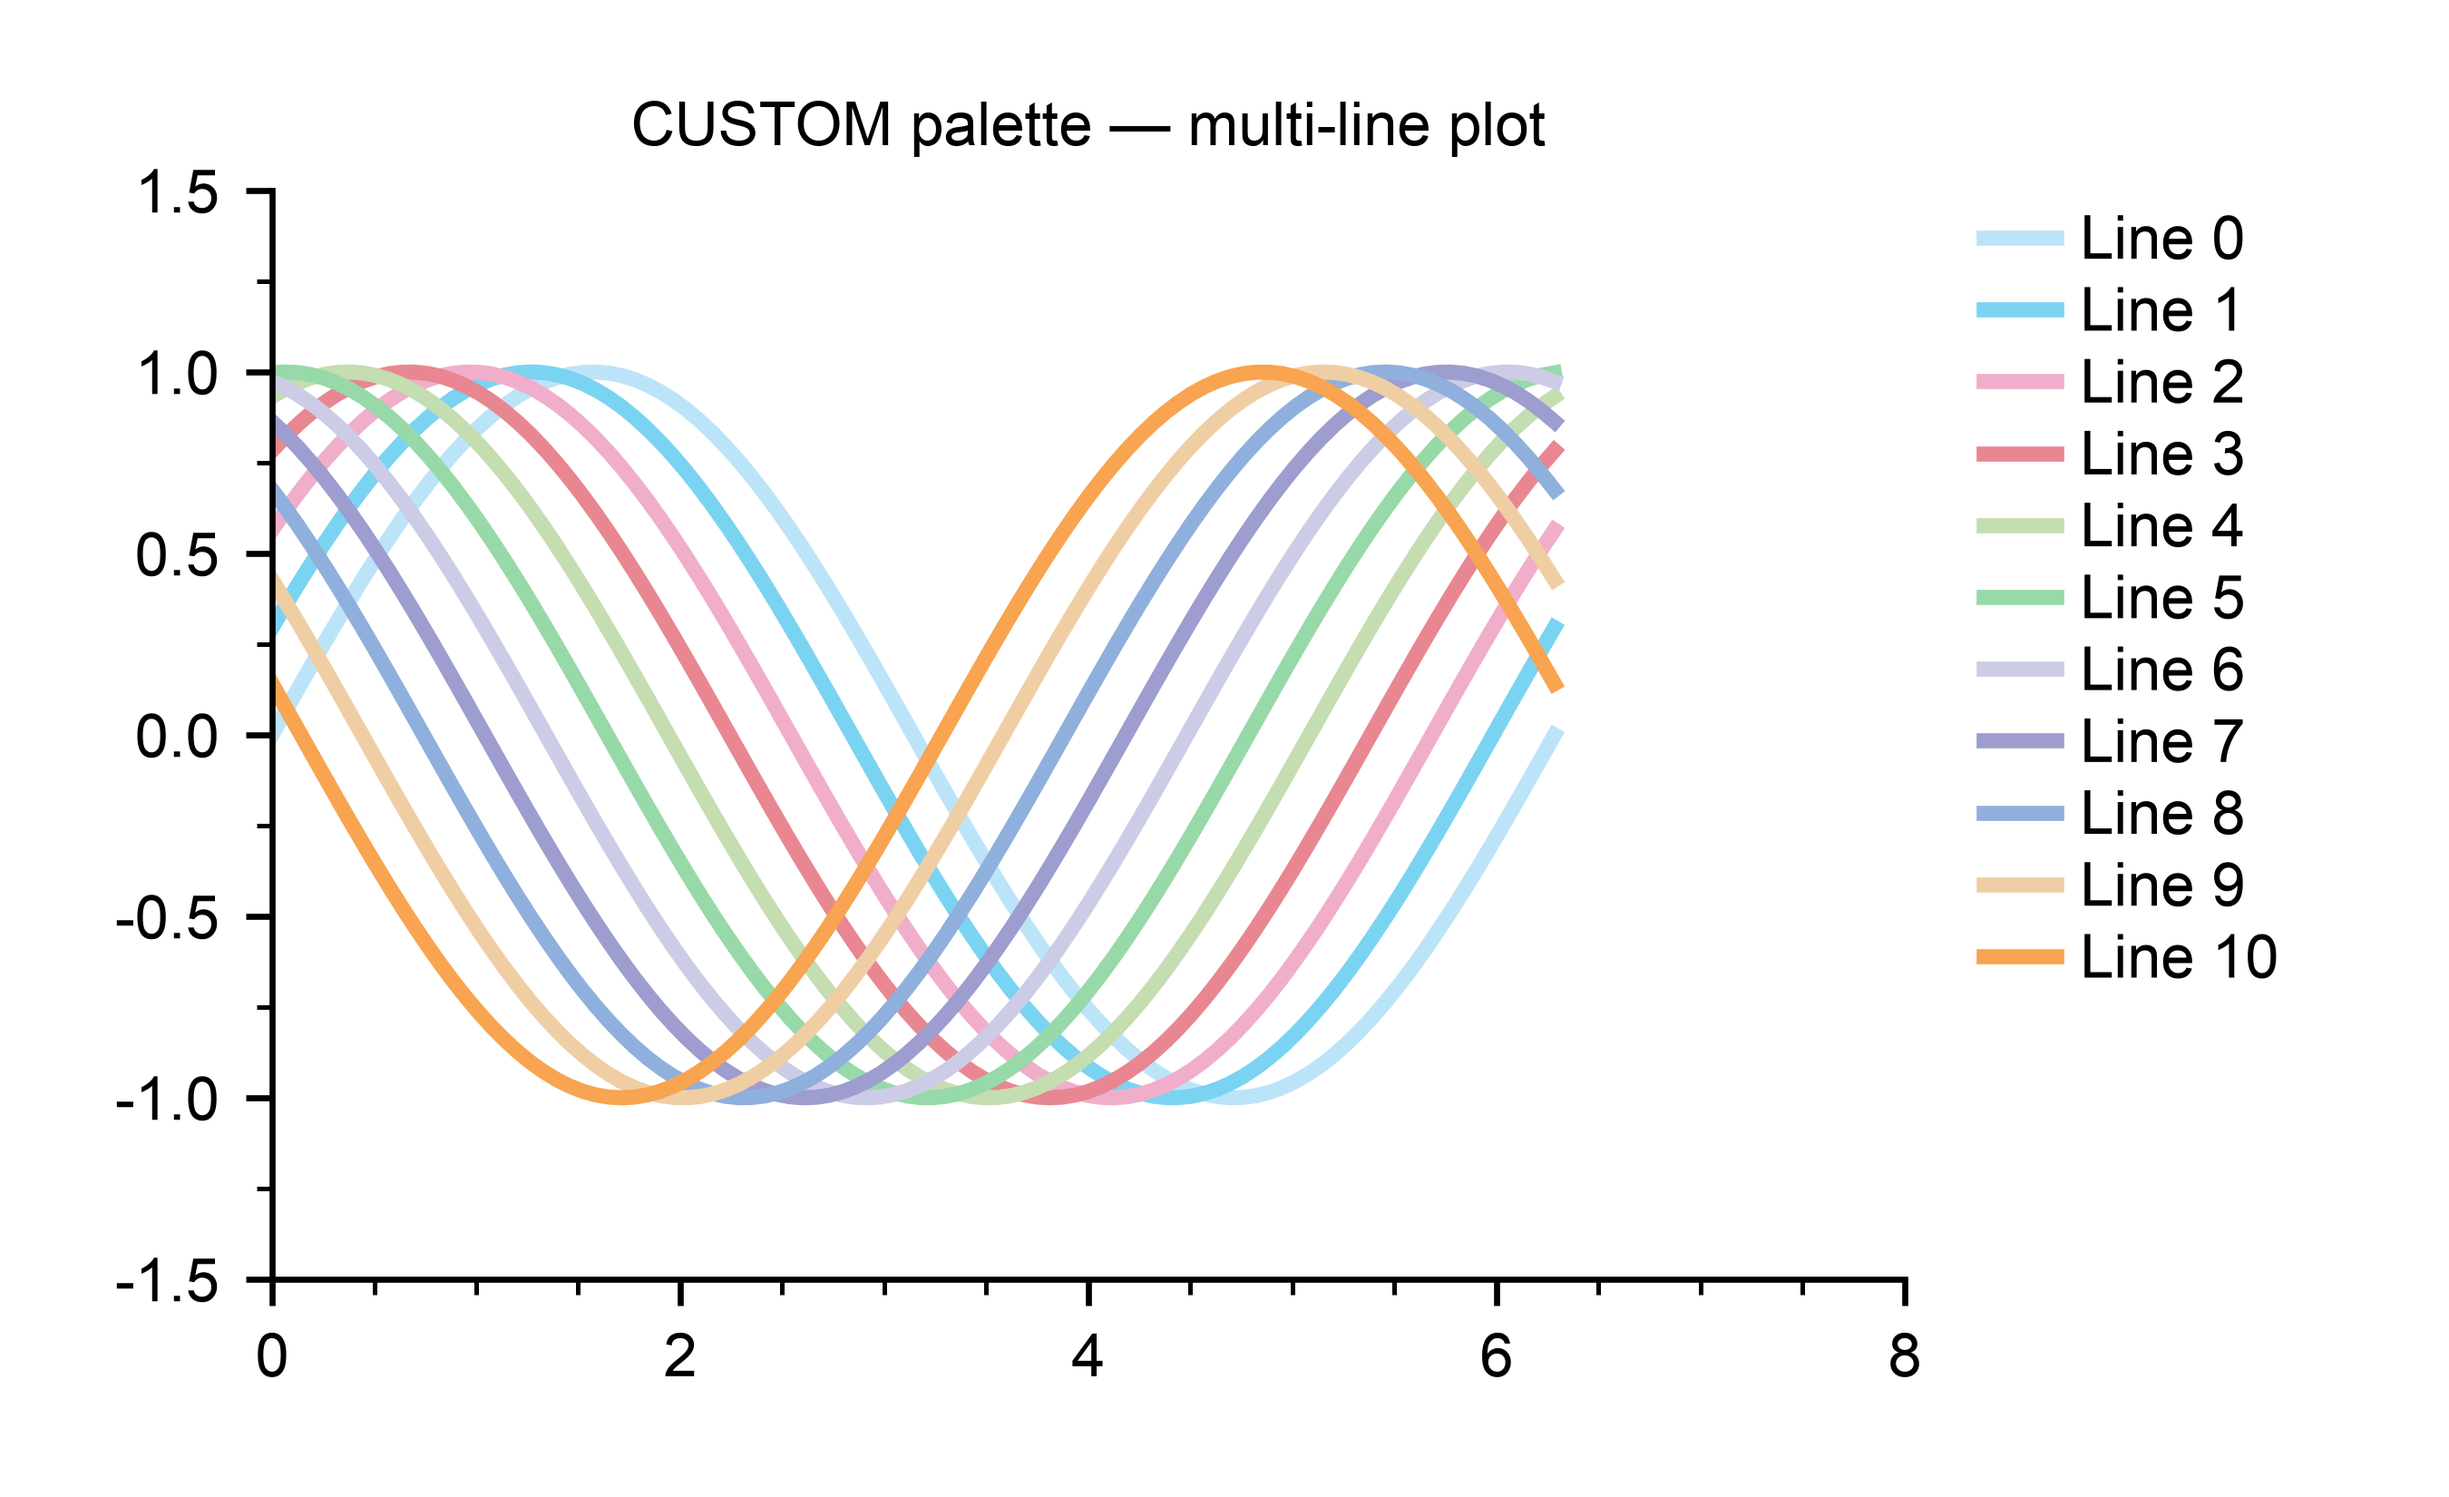
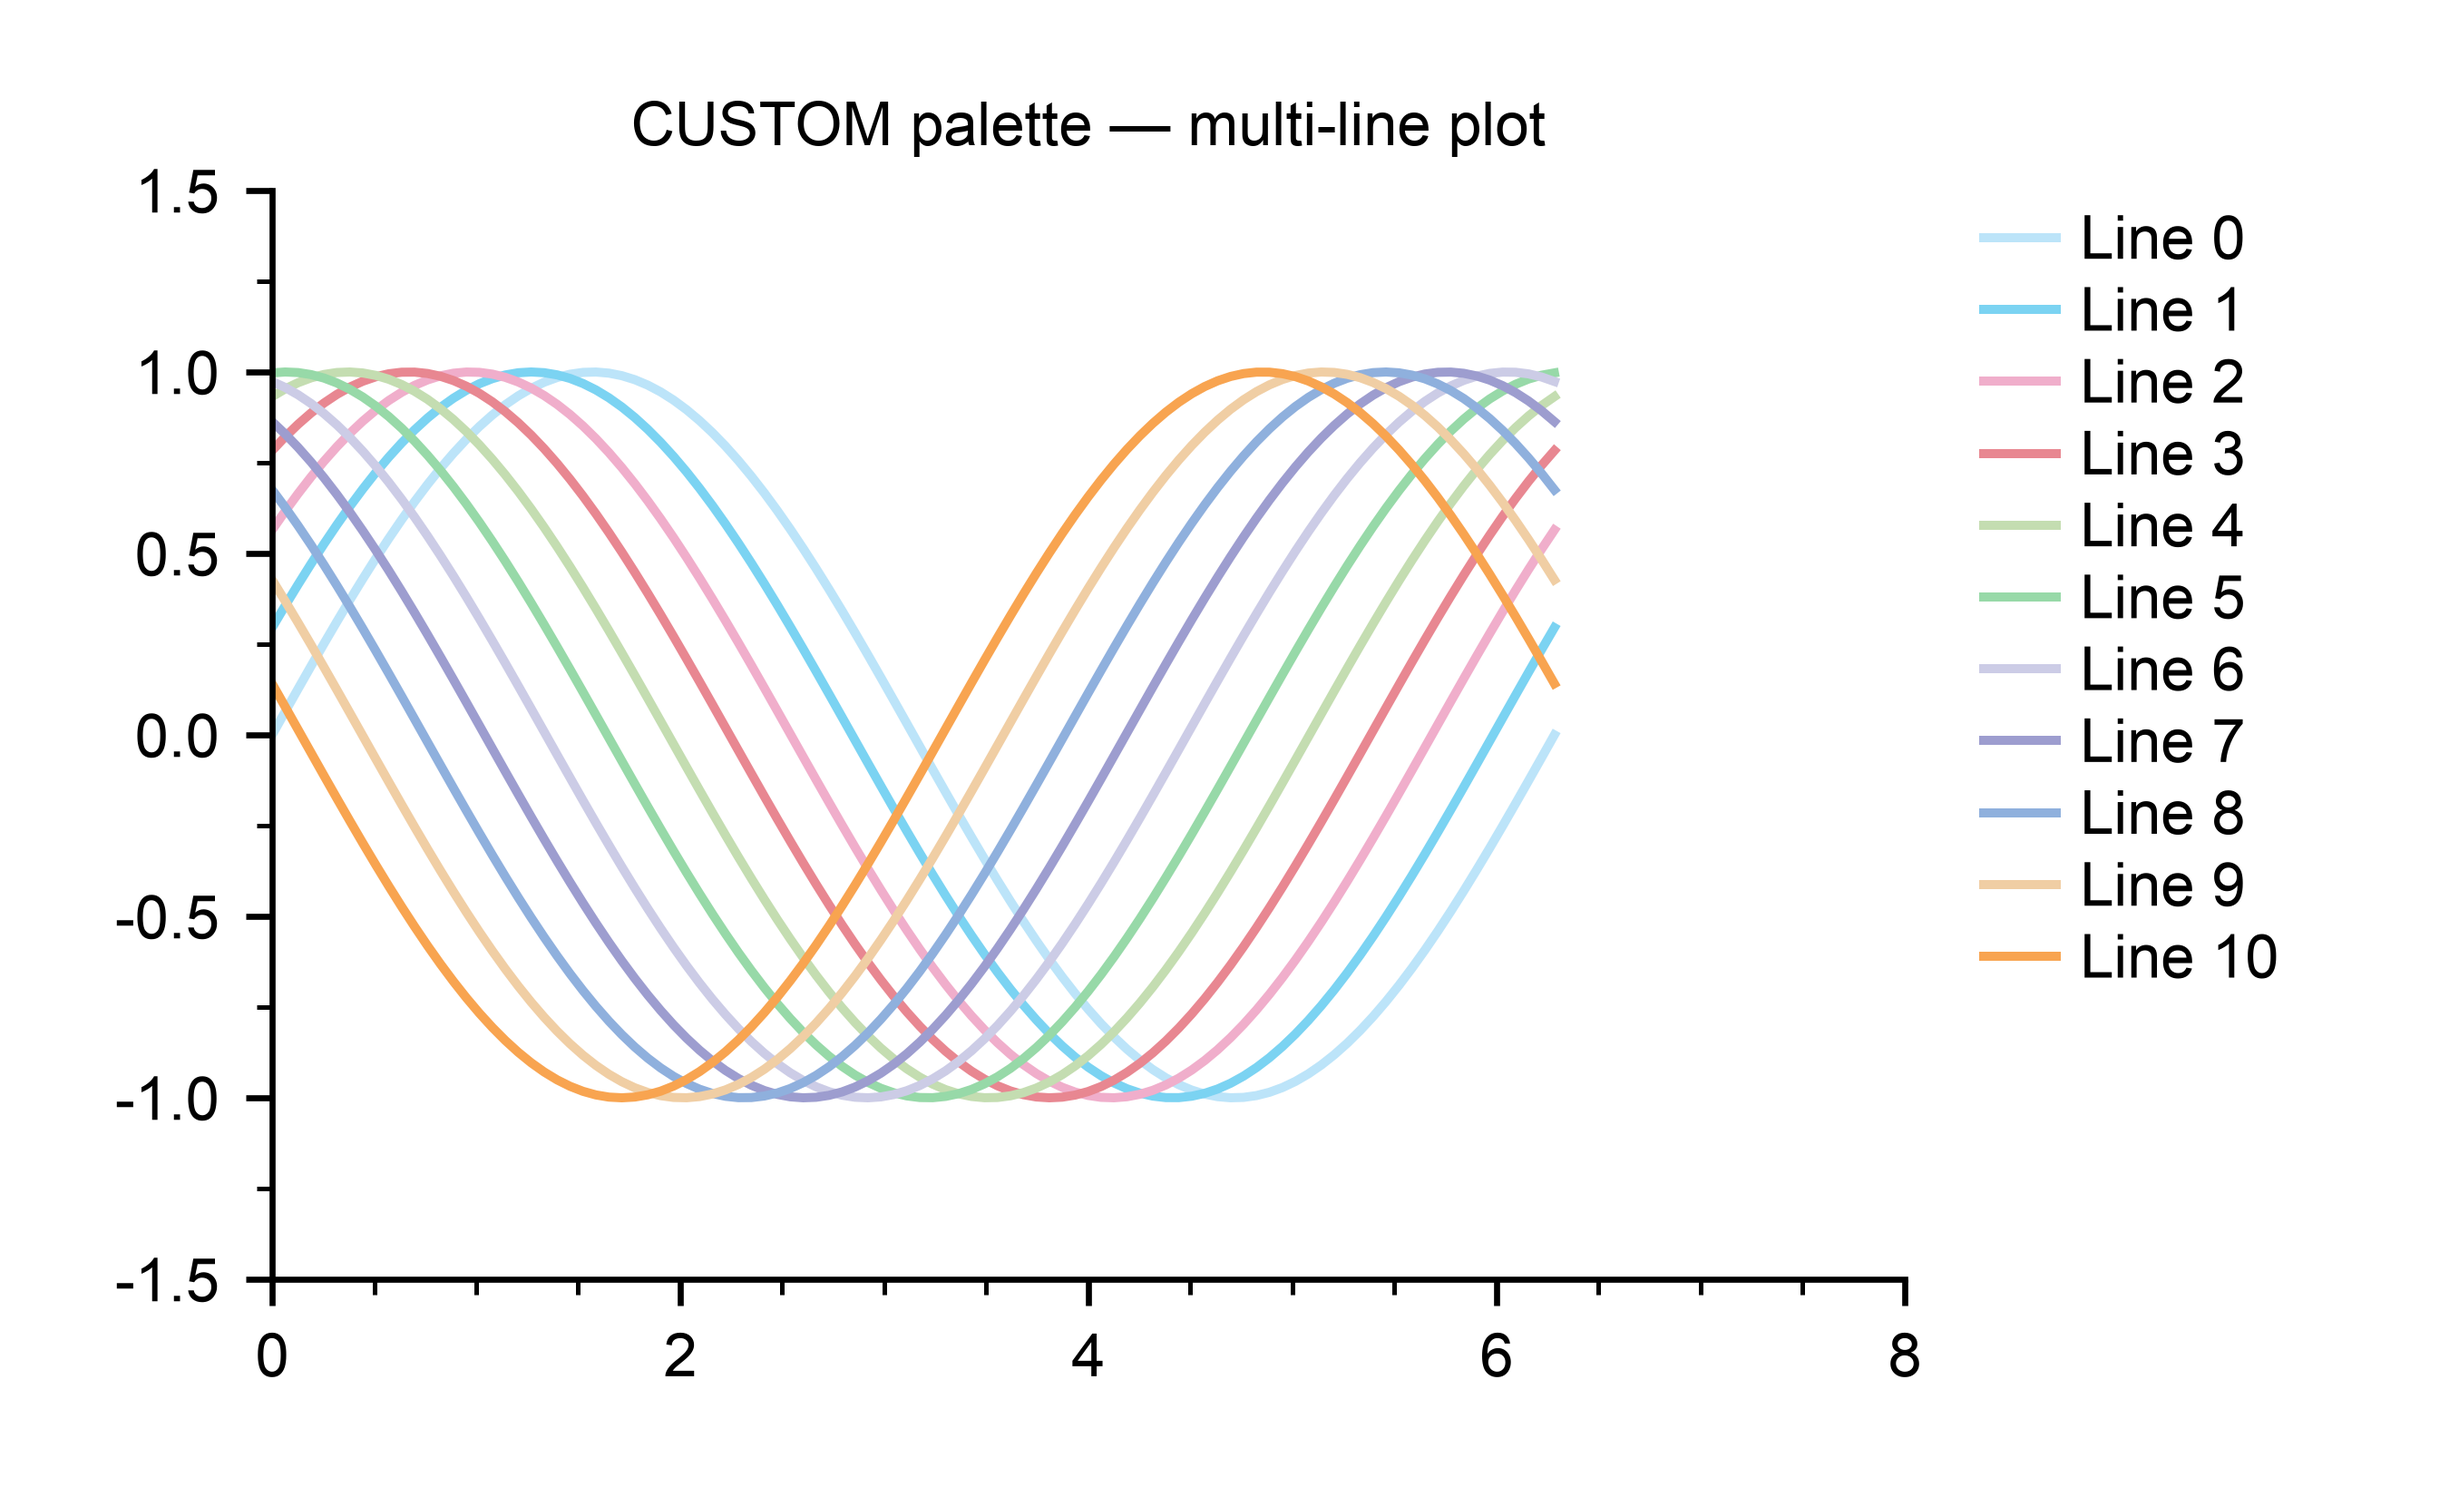
docs(examples): give the curves of custom_multiline an explicit 1.2 pt width

diff --git a/examples/palettes_demo.py b/examples/palettes_demo.py
@@ -62,8 +62,9 @@ def swatches(
 x = np.linspace(0, 2 * np.pi, 100)
 fig = plt.figure(figsize=(4.5, 2.75))
 ax = add_axes_inches(fig, 0.5, 0.4, 3, 2)
+# Curves that share a panel set their width (rule L4 of the style guide).
 for i, color in enumerate(CUSTOM):
-    ax.plot(x, np.sin(x + i * 0.3), color=color, label=f"Line {i}")
+    ax.plot(x, np.sin(x + i * 0.3), color=color, linewidth=1.2, label=f"Line {i}")
 auto_ticks(ax, left=0)
 ax.set_title("CUSTOM palette — multi-line plot")
 legend_inches(ax, 3.6, 2.4)
